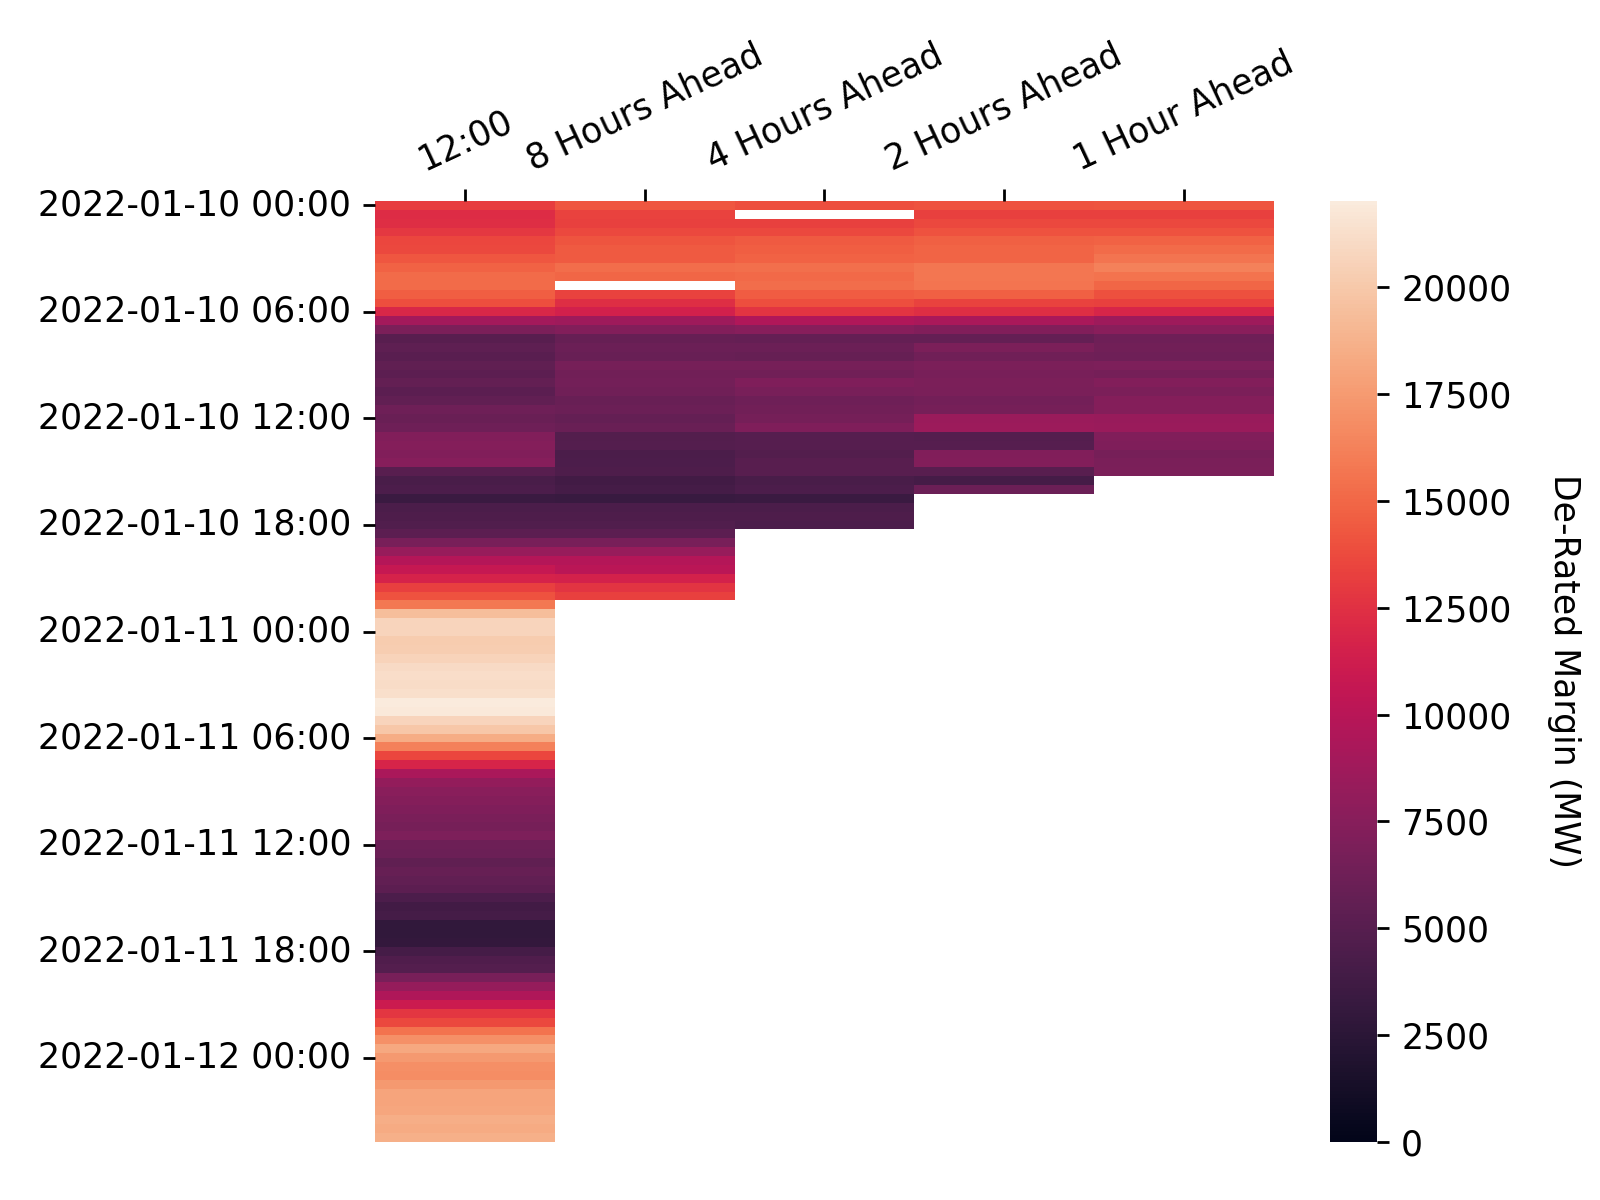
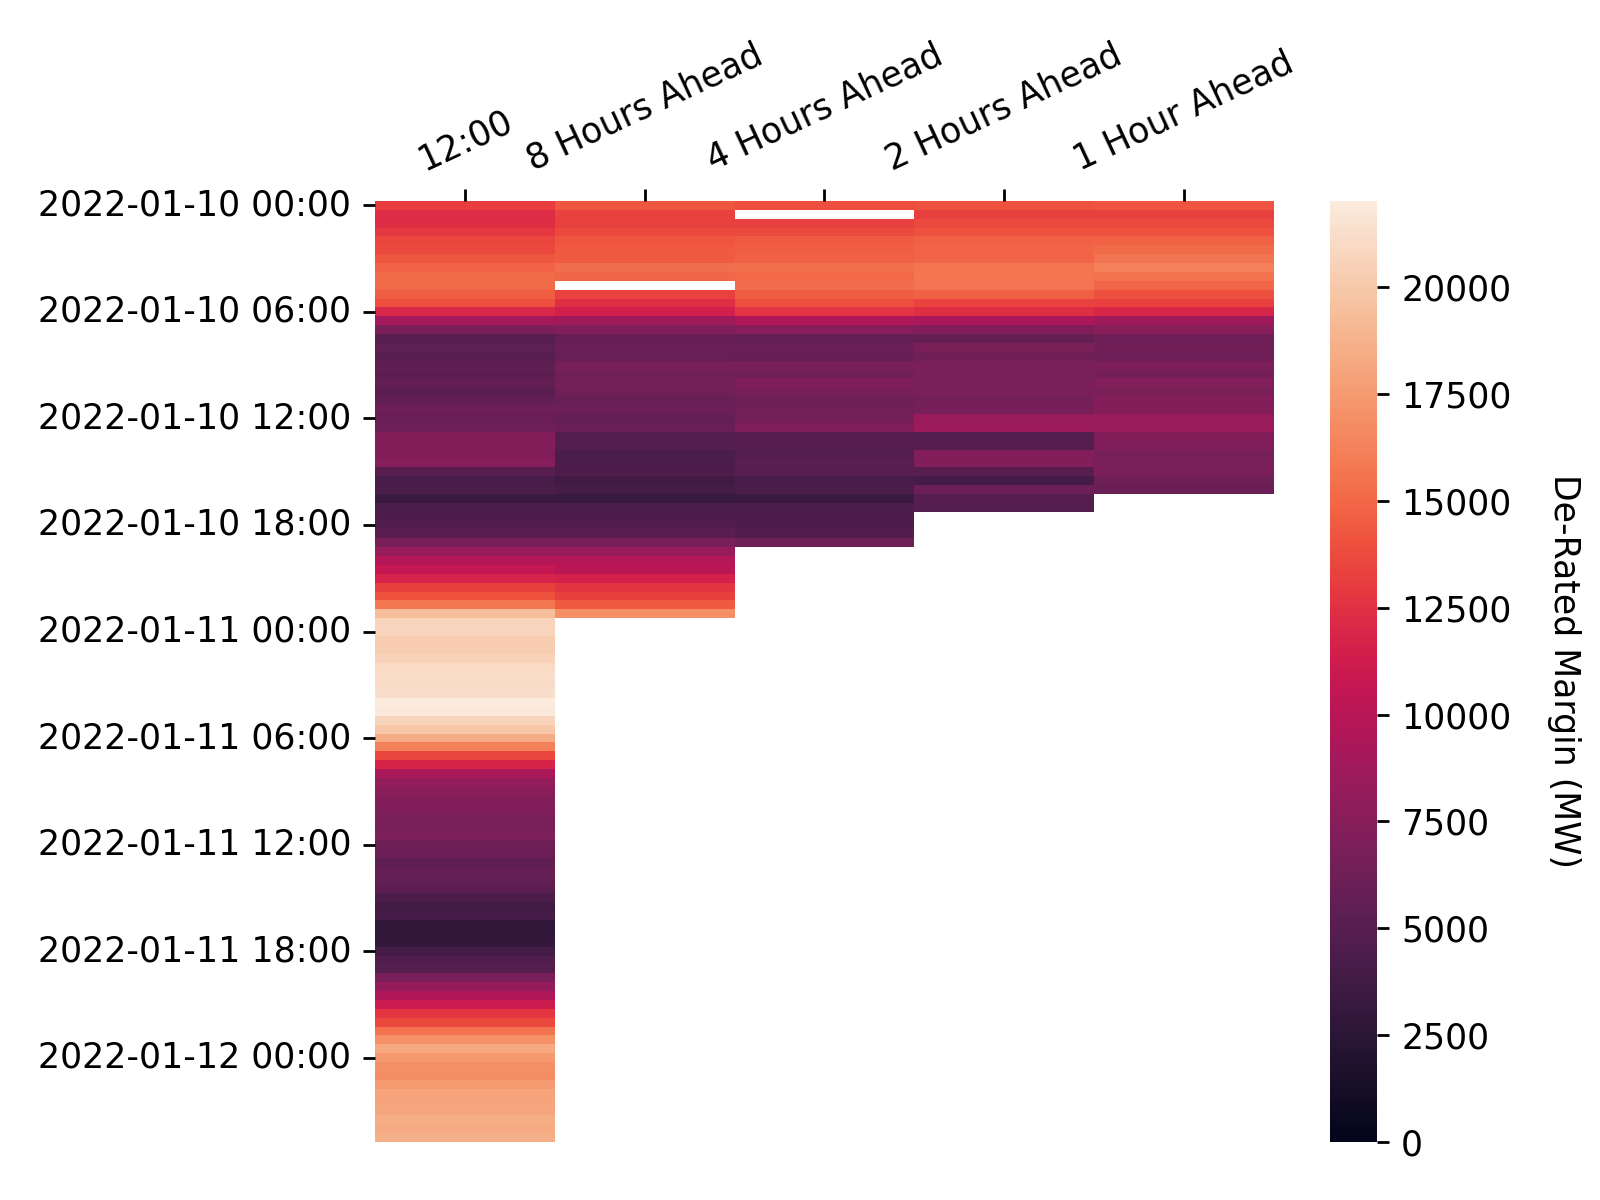
Apply automatic changes

Changed region(s): [[0.4375, 0.37, 0.8125, 0.4625], [0.3438, 0.4933, 0.4688, 0.5242]]

diff --git a/docs/js/map.js b/docs/js/map.js
@@ -144,7 +144,7 @@ document.addEventListener("DOMContentLoaded", function() {
                 follow: 1
             });
             mymap.addControl(sliderControl);
-            sliderControl.startSlider(334);
+            sliderControl.startSlider(335);
         });
     });
 });

diff --git a/docs/visualisations.md b/docs/visualisations.md
@@ -15,7 +15,7 @@ The figures shown here are attempts to replicate the visualisations from [this p
 * Wind, solar and biomass provided 20% of demand in 2015, with a peak of 45%.
 * Prices have become more volatile and net demand is falling towards must-run nuclear.
 
-These figures will be updated on a weekly basis, the last update was at: 2022-01-10 14:40
+These figures will be updated on a weekly basis, the last update was at: 2022-01-10 15:45
 
 <br>
 
@@ -39,7 +39,7 @@ The figure shown here is reproduced from the work in [this paper](https://ayrton
 * In Britain the MOE has increased sharply since 2016, with a 0.67% price reduction per p.p. increase in RES penetration
 * Disaggregation of the MOE by fuel-type highlights key differences in the transition paths of Britain and Germany
 
-This figure will be updated on a weekly basis, the last update was at: 2022-01-10 14:40
+This figure will be updated on a weekly basis, the last update was at: 2022-01-10 15:45
 
 <br>
 
@@ -60,7 +60,7 @@ In each settlement period the system operator publishes the de-rated margin fore
 * At 1200 hours on each calendar day for all Settlement Periods for which Gate Closure has not yet passed and which occur within the current Operational Day or the following Operational Day; and
 * At eight, four, two and one hour(s) prior to the beginning of the Settlement Period to which the De-Rated Margin Forecast relates.
 
-These figures will be updated on an hourly basis, the last update was at: 2022-01-10 15:15
+These figures will be updated on an hourly basis, the last update was at: 2022-01-10 15:50
 
 <br>
 
@@ -83,7 +83,7 @@ The following heatmap shows how the more recent de-rated margin forecasts deviat
 
 ### Power Output Map
 
-Last Updated: 2022-01-10 15:15
+Last Updated: 2022-01-10 15:50
 
 This map shows the power output of individual plants connected to the transmission grid as stated in their most recent Physical Notifications. This data can be retrieved through the *PHYBMDATA* BMRS stream, the out-turn data can be viewed one week later through the *B1610* stream. The scrollbar at the top of the map can be used to view how the generation sources have changed their output over the last week, the layer control can be used to toggle on/off the transmission network, and the plants themselves can be clicked to reveal additional information. The plant location data used in this map has been taking from a sister project, [the Power Station Dictionary](https://osuked.github.io/Power-Station-Dictionary/), which aims to link between data about individual power plants.
 
